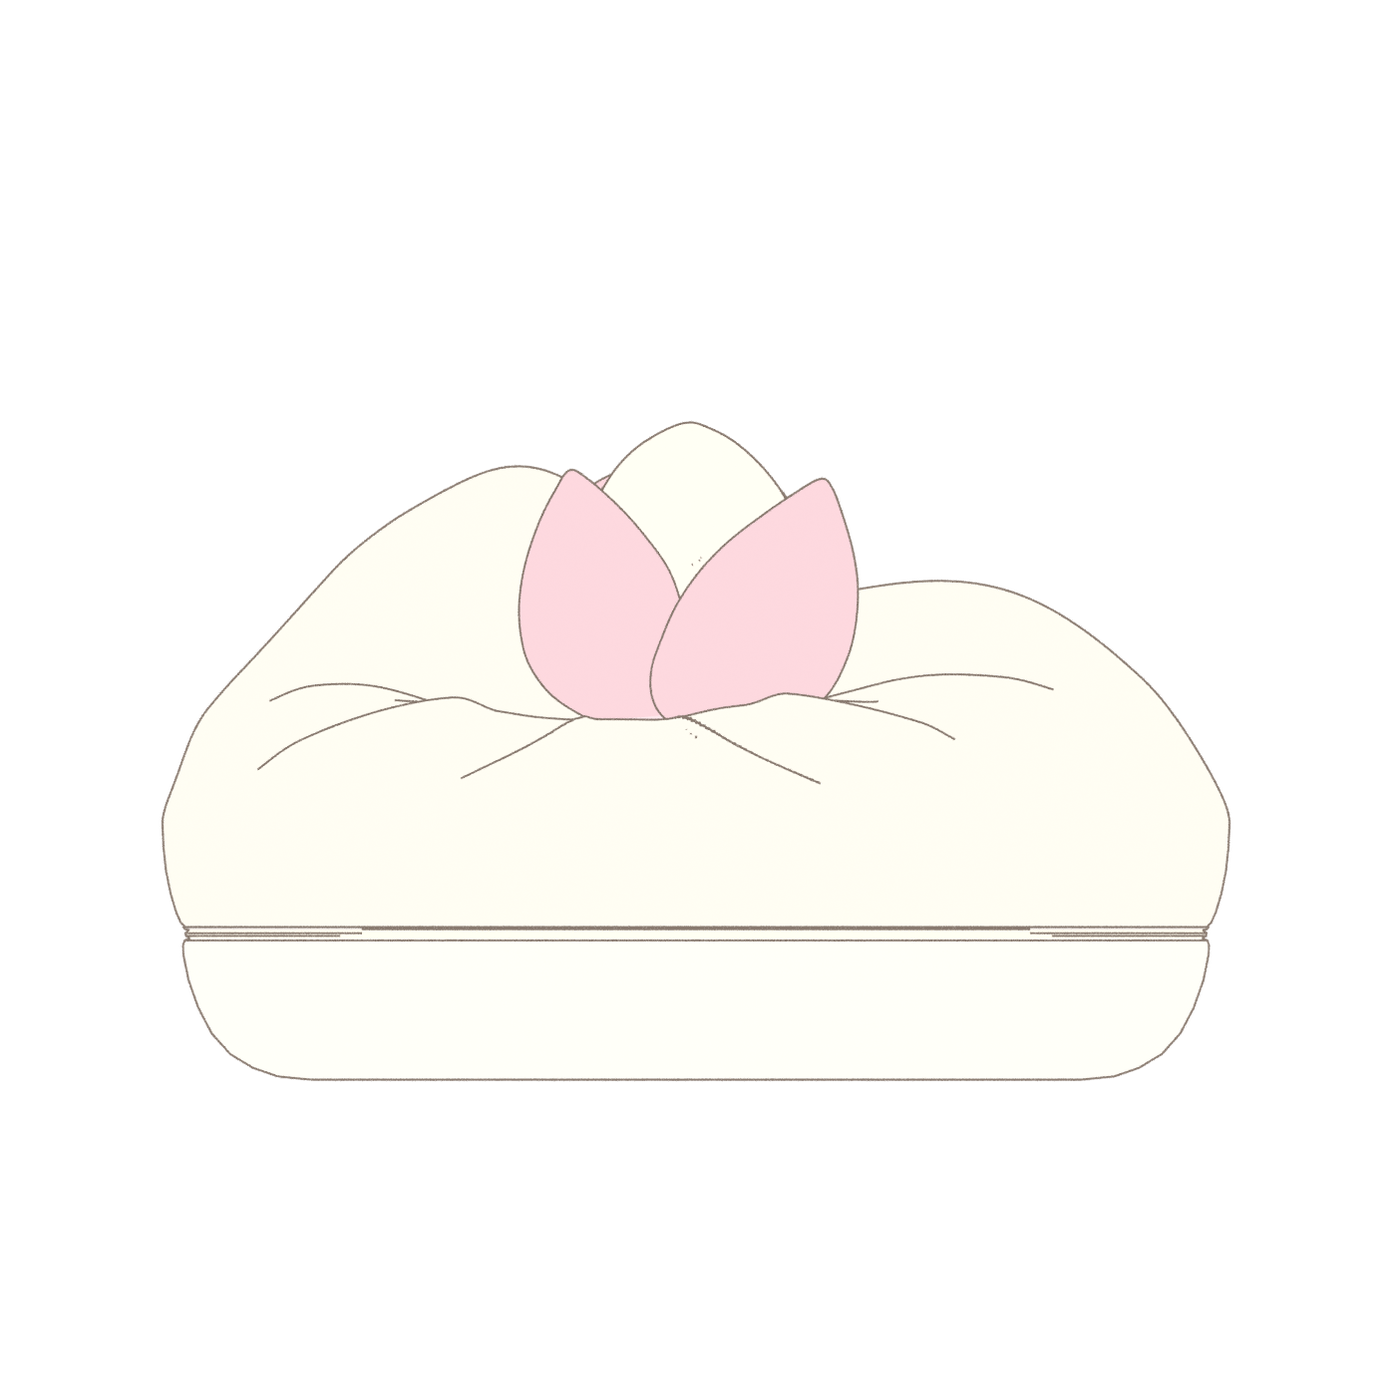
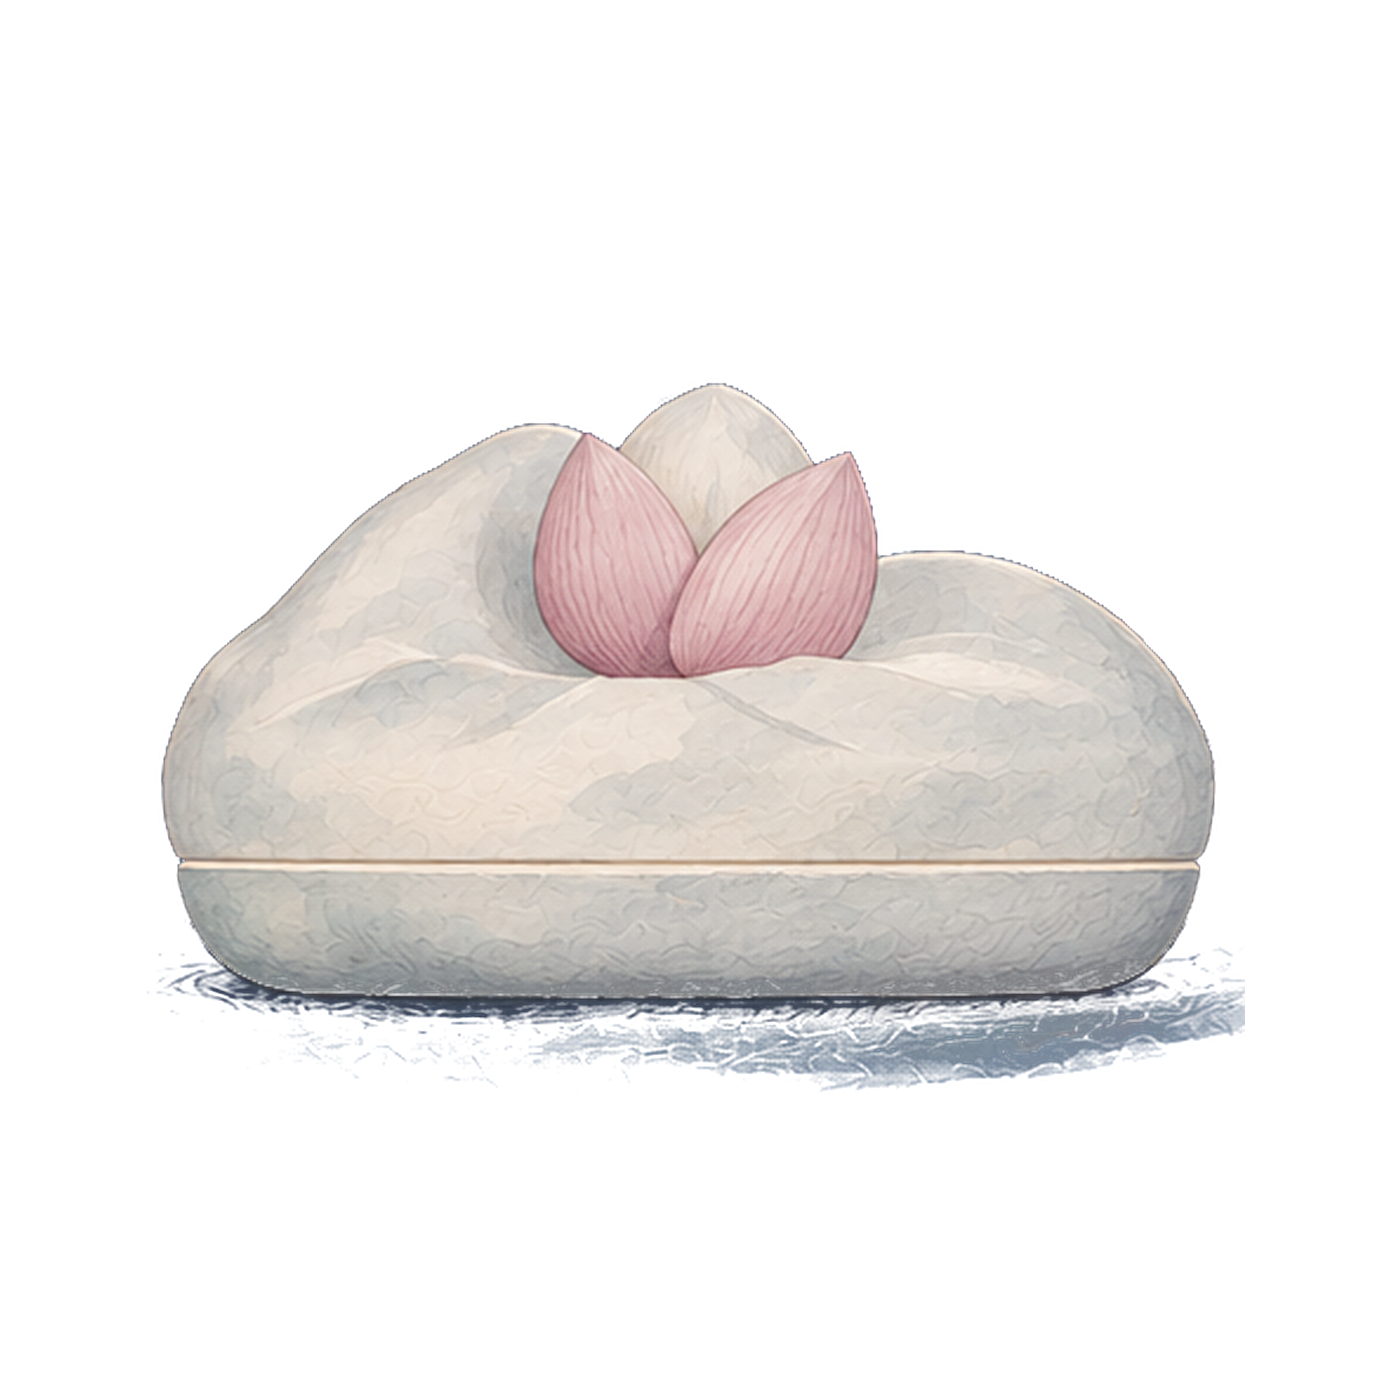
改回水彩手绘（用用户给的参考图做香炉）+ 水洗纸纹背景 + 字体回退 + 版式收紧
- 香炉：改用参考图（去背、2x 放大、锐化），对齐到旧产品图位置；开花改为花瓣区域轻微张开/提色
- 背景：新增纸纹与不规则水洗晕染两层，植物暗纹 6 处铺满边缘，四角压暗做湿边
- 字体：--serif/--sans 恢复为原皮肤字体栈（Noto Serif SC / Noto Sans SC）
- 香炉尺寸 44vmin → 56vmin；两侧卡片 196×262 → 214×288，列宽 226 → 250，进一步向中间靠
- 右上角入口统一 40px 行高，图标与文字基线对齐

Changed region(s): [[0.0921, 0.2764, 0.8907, 0.7986]]

diff --git a/css/vintage.css b/css/vintage.css
@@ -5,8 +5,8 @@
    ============================================================ */
 
 html[data-skin="vintage"] {
-  --serif: "Source Han Serif SC", "Noto Serif CJK SC", "Songti SC", "SimSun", serif;
-  --sans: "Noto Sans CJK SC", "Microsoft YaHei", sans-serif;
+  --serif: "Noto Serif SC", "Source Han Serif SC", "Songti SC", "STSong", "SimSun", serif;
+  --sans: "Noto Sans SC", "PingFang SC", "Microsoft YaHei", sans-serif;
 
   /* 白天 */
   --field: #F0E5D1;
@@ -1521,3 +1521,158 @@ html[data-skin="vintage"][data-theme="day"] .censer-wrap .censer-art {
   filter: drop-shadow(0 10px 16px rgba(104, 82, 56, .16));
 }
 html[data-skin="vintage"] .censer-wrap .glow-layer { filter: none; }
+
+
+/* ============================================================
+   第四轮：水彩质感
+   ============================================================ */
+
+/* 植物暗纹：铺满边缘，比之前更清楚 */
+html[data-skin="vintage"] .vintage-bg .vg-motif {
+  position: absolute;
+  background-repeat: no-repeat;
+  background-size: contain;
+  opacity: .5;
+  mix-blend-mode: soft-light;
+  pointer-events: none;
+}
+html[data-skin="vintage"] .vintage-bg .m1 {
+  left: -6%; bottom: -10%; width: 42vw; height: 42vw;
+  background-image: url("../assets/vintage/ink/chenxiang-branch.webp");
+}
+html[data-skin="vintage"] .vintage-bg .m2 {
+  right: -8%; top: -12%; width: 38vw; height: 38vw;
+  background-image: url("../assets/vintage/ink/bamboo.webp");
+  transform: scaleX(-1);
+}
+html[data-skin="vintage"] .vintage-bg .m3 {
+  left: 26%; top: -18%; width: 30vw; height: 30vw;
+  background-image: url("../assets/vintage/ink/bamboo-leaf.webp");
+}
+html[data-skin="vintage"] .vintage-bg .m4 {
+  left: -10%; top: 12%; width: 26vw; height: 26vw;
+  background-image: url("../assets/vintage/ink/chenxiang-petal.webp");
+  opacity: .42;
+}
+html[data-skin="vintage"] .vintage-bg .m5 {
+  right: -6%; bottom: -6%; width: 34vw; height: 34vw;
+  background-image: url("../assets/vintage/ink/dragon-fruit.webp");
+  opacity: .46;
+}
+html[data-skin="vintage"] .vintage-bg .m6 {
+  right: 22%; bottom: -14%; width: 22vw; height: 22vw;
+  background-image: url("../assets/vintage/ink/bamboo-leaf.webp");
+  transform: scaleY(-1) rotate(8deg);
+  opacity: .36;
+}
+
+/* 水洗晕染：大块不均匀的湿边 */
+html[data-skin="vintage"] .vintage-bg .vg-wash {
+  position: absolute;
+  inset: -8%;
+  background-image: url("../assets/vintage/tex/wash.webp");
+  background-size: cover;
+  background-position: center;
+  opacity: .5;
+  mix-blend-mode: multiply;
+}
+html[data-skin="vintage"][data-theme="night"] .vintage-bg .vg-wash {
+  opacity: .62;
+  mix-blend-mode: soft-light;
+}
+
+/* 纸纹：颗粒感 */
+html[data-skin="vintage"] .vintage-bg .vg-paper {
+  position: absolute;
+  inset: 0;
+  background-image: url("../assets/vintage/tex/paper.webp");
+  background-size: 420px 420px;
+  opacity: .55;
+  mix-blend-mode: overlay;
+}
+html[data-skin="vintage"][data-theme="day"] .vintage-bg .vg-paper { opacity: .62; }
+
+/* 四角压暗，像水彩纸的湿边 */
+html[data-skin="vintage"] .vintage-bg::after {
+  content: "";
+  position: absolute;
+  inset: 0;
+  background:
+    radial-gradient(120% 90% at 50% 46%, rgba(0, 0, 0, 0) 52%, rgba(20, 26, 34, .28) 100%),
+    radial-gradient(80% 60% at 12% 8%, rgba(30, 38, 48, .22), rgba(0, 0, 0, 0) 70%),
+    radial-gradient(70% 60% at 92% 88%, rgba(30, 38, 48, .2), rgba(0, 0, 0, 0) 70%);
+  pointer-events: none;
+}
+
+/* 香炉：放大到原来的 1.28 倍 */
+html[data-skin="vintage"] .censer-wrap {
+  width: min(56vmin, 520px);
+}
+
+/* 卡片再往中间靠、再放大一点 */
+html[data-skin="vintage"] #view-today .stage {
+  grid-template-columns: 250px minmax(0, 1fr) 250px;
+  gap: clamp(0px, .4vw, 8px);
+  padding: 4px clamp(2px, .6vw, 10px) 0;
+}
+html[data-skin="vintage"] .rail { width: 250px; }
+html[data-skin="vintage"] .rail-card,
+html[data-skin="vintage"] .rail-btn {
+  width: 214px;
+  height: 288px;
+  padding: 26px 16px 32px;
+}
+html[data-skin="vintage"] .rail-card[data-panel="watch"] .rail-art { width: 116px; height: 116px; }
+html[data-skin="vintage"] .rail-card[data-panel="diff"] .rail-art { width: 146px; height: 116px; }
+html[data-skin="vintage"] .rail-card[data-panel="body"] .rail-art { width: 162px; height: 92px; }
+html[data-skin="vintage"] .rail-card[data-panel="scent"] .rail-art { width: 146px; height: 104px; }
+
+/* 右上角：三个入口基线对齐 */
+html[data-skin="vintage"] .top-actions { align-items: center; }
+html[data-skin="vintage"] .tool {
+  display: inline-flex;
+  align-items: center;
+  line-height: 1;
+  height: 40px;
+  padding: 0 2px;
+}
+html[data-skin="vintage"] .tool img { flex: 0 0 auto; }
+html[data-skin="vintage"] .tool span { line-height: 1; transform: translateY(0); }
+html[data-skin="vintage"] .more-wrap { display: flex; align-items: center; }
+
+/* 开花：只让花瓣那片轻轻张开，风格不变 */
+html[data-skin="vintage"] .censer-art.censer-bloom {
+  --bloom-cx: 50%;
+  --bloom-cy: 40%;
+  transform-origin: var(--bloom-cx) var(--bloom-cy);
+  clip-path: none;
+  filter: saturate(1.08) brightness(1.04);
+  transform: scale(1);
+  transition: opacity 2.1s cubic-bezier(.34, .1, .28, 1),
+              transform 2.1s cubic-bezier(.34, .1, .28, 1);
+}
+html[data-skin="vintage"] body.is-lit .censer-art.censer-bloom {
+  transform: scale(1.055);
+  transition: opacity 1.6s ease, transform 1.9s cubic-bezier(.2, .7, .3, 1);
+}
+html[data-skin="vintage"] body.is-igniting:not(.is-lit) .censer-art.censer-bloom {
+  transform: scale(1.02);
+  transition: opacity .6s ease, transform 1.2s ease;
+}
+
+
+/* 白天：水洗与纸纹压低，别把暖宣纸压成灰 */
+html[data-skin="vintage"][data-theme="day"] .vintage-bg .vg-wash {
+  opacity: .26;
+  mix-blend-mode: soft-light;
+}
+html[data-skin="vintage"][data-theme="day"] .vintage-bg .vg-paper { opacity: .34; }
+html[data-skin="vintage"][data-theme="day"] .vintage-bg .vg-motif { opacity: .34; mix-blend-mode: multiply; }
+html[data-skin="vintage"][data-theme="day"] .vintage-bg .vg-veil {
+  background:
+    linear-gradient(180deg, rgba(244, 234, 214, .55), rgba(238, 226, 203, .30)),
+    radial-gradient(90% 70% at 50% 40%, rgba(255, 250, 240, .35), rgba(255, 250, 240, 0) 70%);
+}
+
+/* 夜间：纹样再清楚一点 */
+html[data-skin="vintage"][data-theme="night"] .vintage-bg .vg-motif { opacity: .58; }

diff --git a/index.html b/index.html
@@ -29,7 +29,12 @@
 <!-- 手绘复古底纹（暗纹 + 鼠标局部提色） -->
 <div class="vintage-bg" aria-hidden="true">
   <div class="vg-base"></div>
+  <span class="vg-motif m1"></span><span class="vg-motif m2"></span>
+  <span class="vg-motif m3"></span><span class="vg-motif m4"></span>
+  <span class="vg-motif m5"></span><span class="vg-motif m6"></span>
   <div class="vg-ink"></div>
+  <div class="vg-wash"></div>
+  <div class="vg-paper"></div>
   <div class="vg-veil"></div>
 </div>
 
